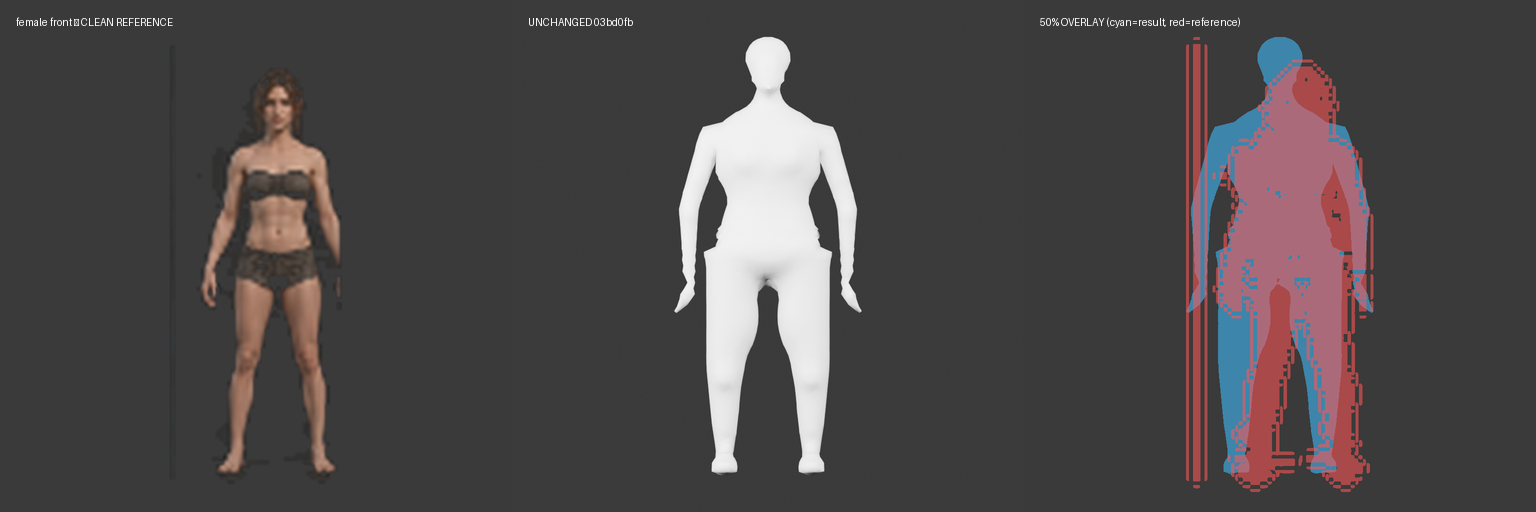
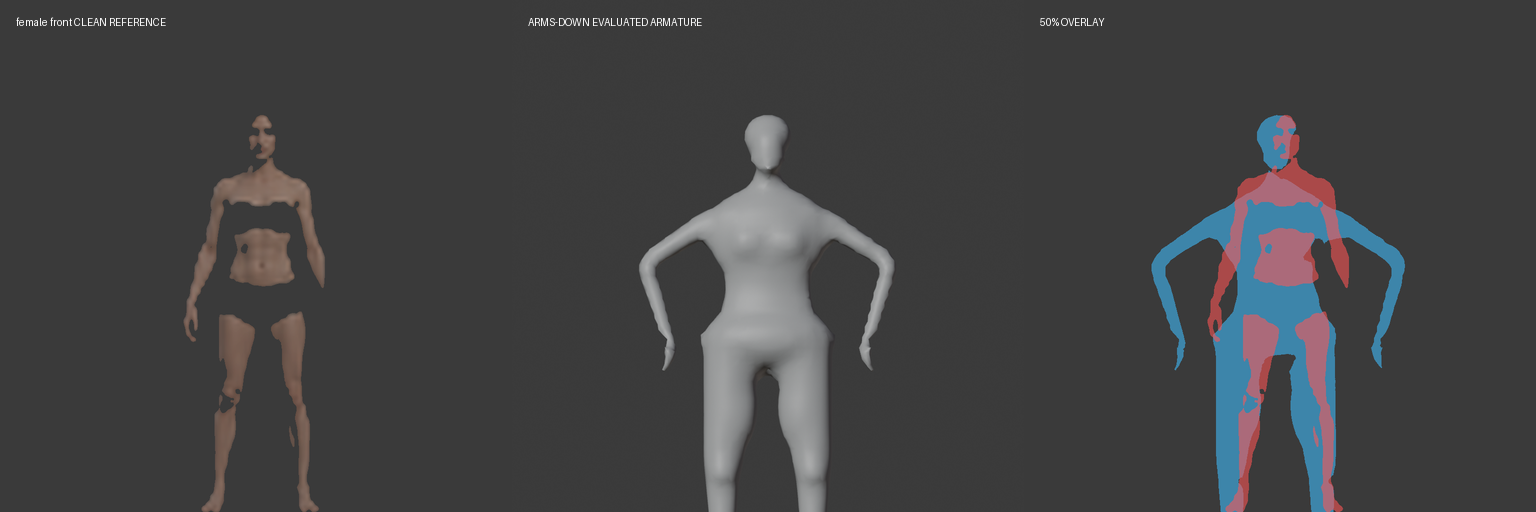
evidence: isolate renders and validate arms-down comparisons

diff --git a/tools/render_character_evidence.py b/tools/render_character_evidence.py
@@ -3,10 +3,16 @@ import bpy, math, os
 ROOT=os.path.abspath(os.path.join(os.path.dirname(__file__),'..')); OUT=os.path.join(ROOT,'docs/character_visuals/final_comparison')
 bpy.ops.wm.open_mainfile(filepath=os.path.join(ROOT,'content/characters/base_meshes/underworld_base_bodies.blend'))
 def run(g):
- mesh=bpy.data.objects[g+'BaseBody']; rig=bpy.data.objects[g+'BaseBody_Rig']; [o.hide_set(True) for o in bpy.context.scene.objects if o.type in ('MESH','ARMATURE')]
- r=rig.copy(); r.data=rig.data.copy(); bpy.context.collection.objects.link(r); m=mesh.copy(); m.data=mesh.data.copy(); bpy.context.collection.objects.link(m); r.hide_set(False); m.hide_set(False); m.parent=r
+ mesh=bpy.data.objects[g+'BaseBody']; rig=bpy.data.objects[g+'BaseBody_Rig']
+ for o in bpy.context.scene.objects:
+  if o.type in ('MESH','ARMATURE'): o.hide_set(True); o.hide_render=True
+ r=rig.copy(); r.data=rig.data.copy(); bpy.context.collection.objects.link(r); m=mesh.copy(); m.data=mesh.data.copy(); bpy.context.collection.objects.link(m); r.hide_set(False); r.hide_render=False; m.hide_set(False); m.hide_render=False; m.parent=r
+ renderable=[o for o in bpy.context.scene.objects if o.type=='MESH' and not o.hide_render and o.name.startswith(g+'BaseBody')]
+ if renderable != [m]: raise RuntimeError(f'FAIL render isolation {g}: {[(o.name,o.hide_render) for o in renderable]}')
  for mod in m.modifiers:
   if mod.type=='ARMATURE': mod.object=r
+ for view,loc,rot in [('front',(0,-5.5,1.35),(math.radians(90),0,0)),('side',(5.5,0,1.35),(math.radians(90),0,math.radians(90)))]:
+  bpy.ops.object.camera_add(location=loc,rotation=rot); c=bpy.context.object; c.data.type='ORTHO'; c.data.ortho_scale=2.15; bpy.context.scene.camera=c; bpy.context.view_layer.update(); s=bpy.context.scene; s.render.engine='BLENDER_WORKBENCH'; s.display.shading.light='STUDIO'; s.display.shading.color_type='SINGLE'; s.display.shading.single_color=(.82,.82,.82); s.render.resolution_x=s.render.resolution_y=1024; s.render.filepath=os.path.join(OUT,f'{g.lower()}_rest_diagnostic_{view}.png'); bpy.ops.render.render(write_still=True); bpy.data.objects.remove(c,do_unlink=True)
  for side,b in ((-1,'l'),(1,'r')):
   bpy.ops.object.empty_add(type='PLAIN_AXES',location=(side*.43,-.02,.93)); target=bpy.context.object; target.name='EvidenceHandTarget_'+b
   con=r.pose.bones['hand_'+b].constraints.new('IK'); con.name='EvidenceArmsDownIK'; con.target=target; con.chain_count=3

diff --git a/tools/generate_character_reference_evidence.py b/tools/generate_character_reference_evidence.py
@@ -34,8 +34,12 @@ def components(mask):
 for gender in ("male", "female"):
     source=Image.open(SOURCES[gender]).convert("RGB")
     for view in ("front", "side"):
-        crop=source.crop(BOXES[(gender,view)]); gray=crop.convert("L")
-        mask=gray.point(lambda p: 255 if p>=48 else 0).filter(ImageFilter.MaxFilter(3))
+        crop=source.crop(BOXES[(gender,view)]); rgb=crop.load(); mask=Image.new("L",crop.size,0); mp=mask.load()
+        for yy in range(crop.height):
+            for xx in range(crop.width):
+                rr,gg,bb=rgb[xx,yy]
+                if max(rr,gg,bb)-min(rr,gg,bb)>=14 and max(rr,gg,bb)>=48: mp[xx,yy]=255
+        mask=mask.filter(ImageFilter.MaxFilter(3))
         comps=components(mask); viable=[]
         for c in comps:
             ys=[p[1] for p in c]; xs=[p[0] for p in c]; height=max(ys)-min(ys)+1
